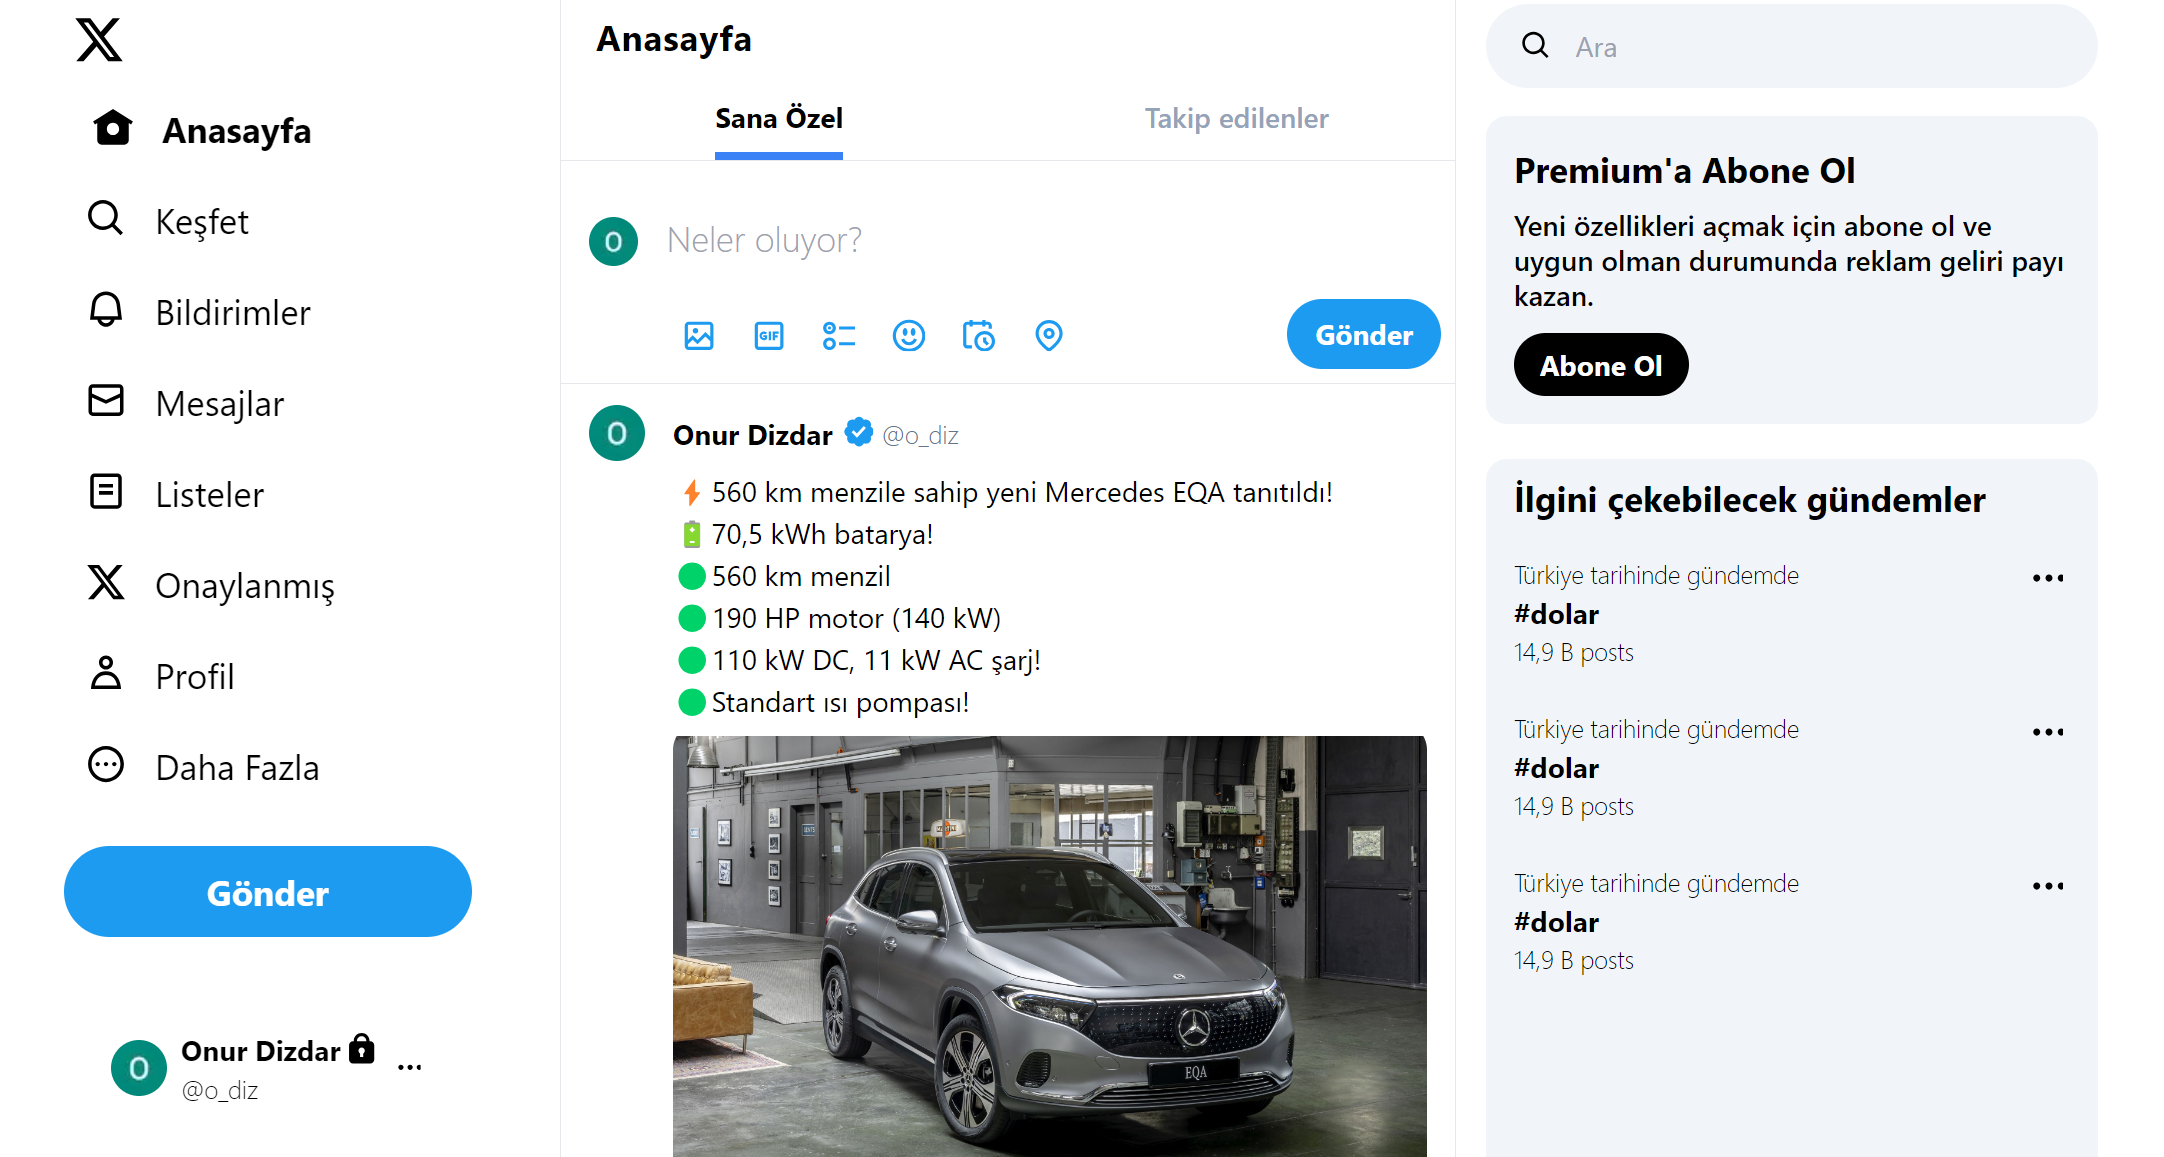
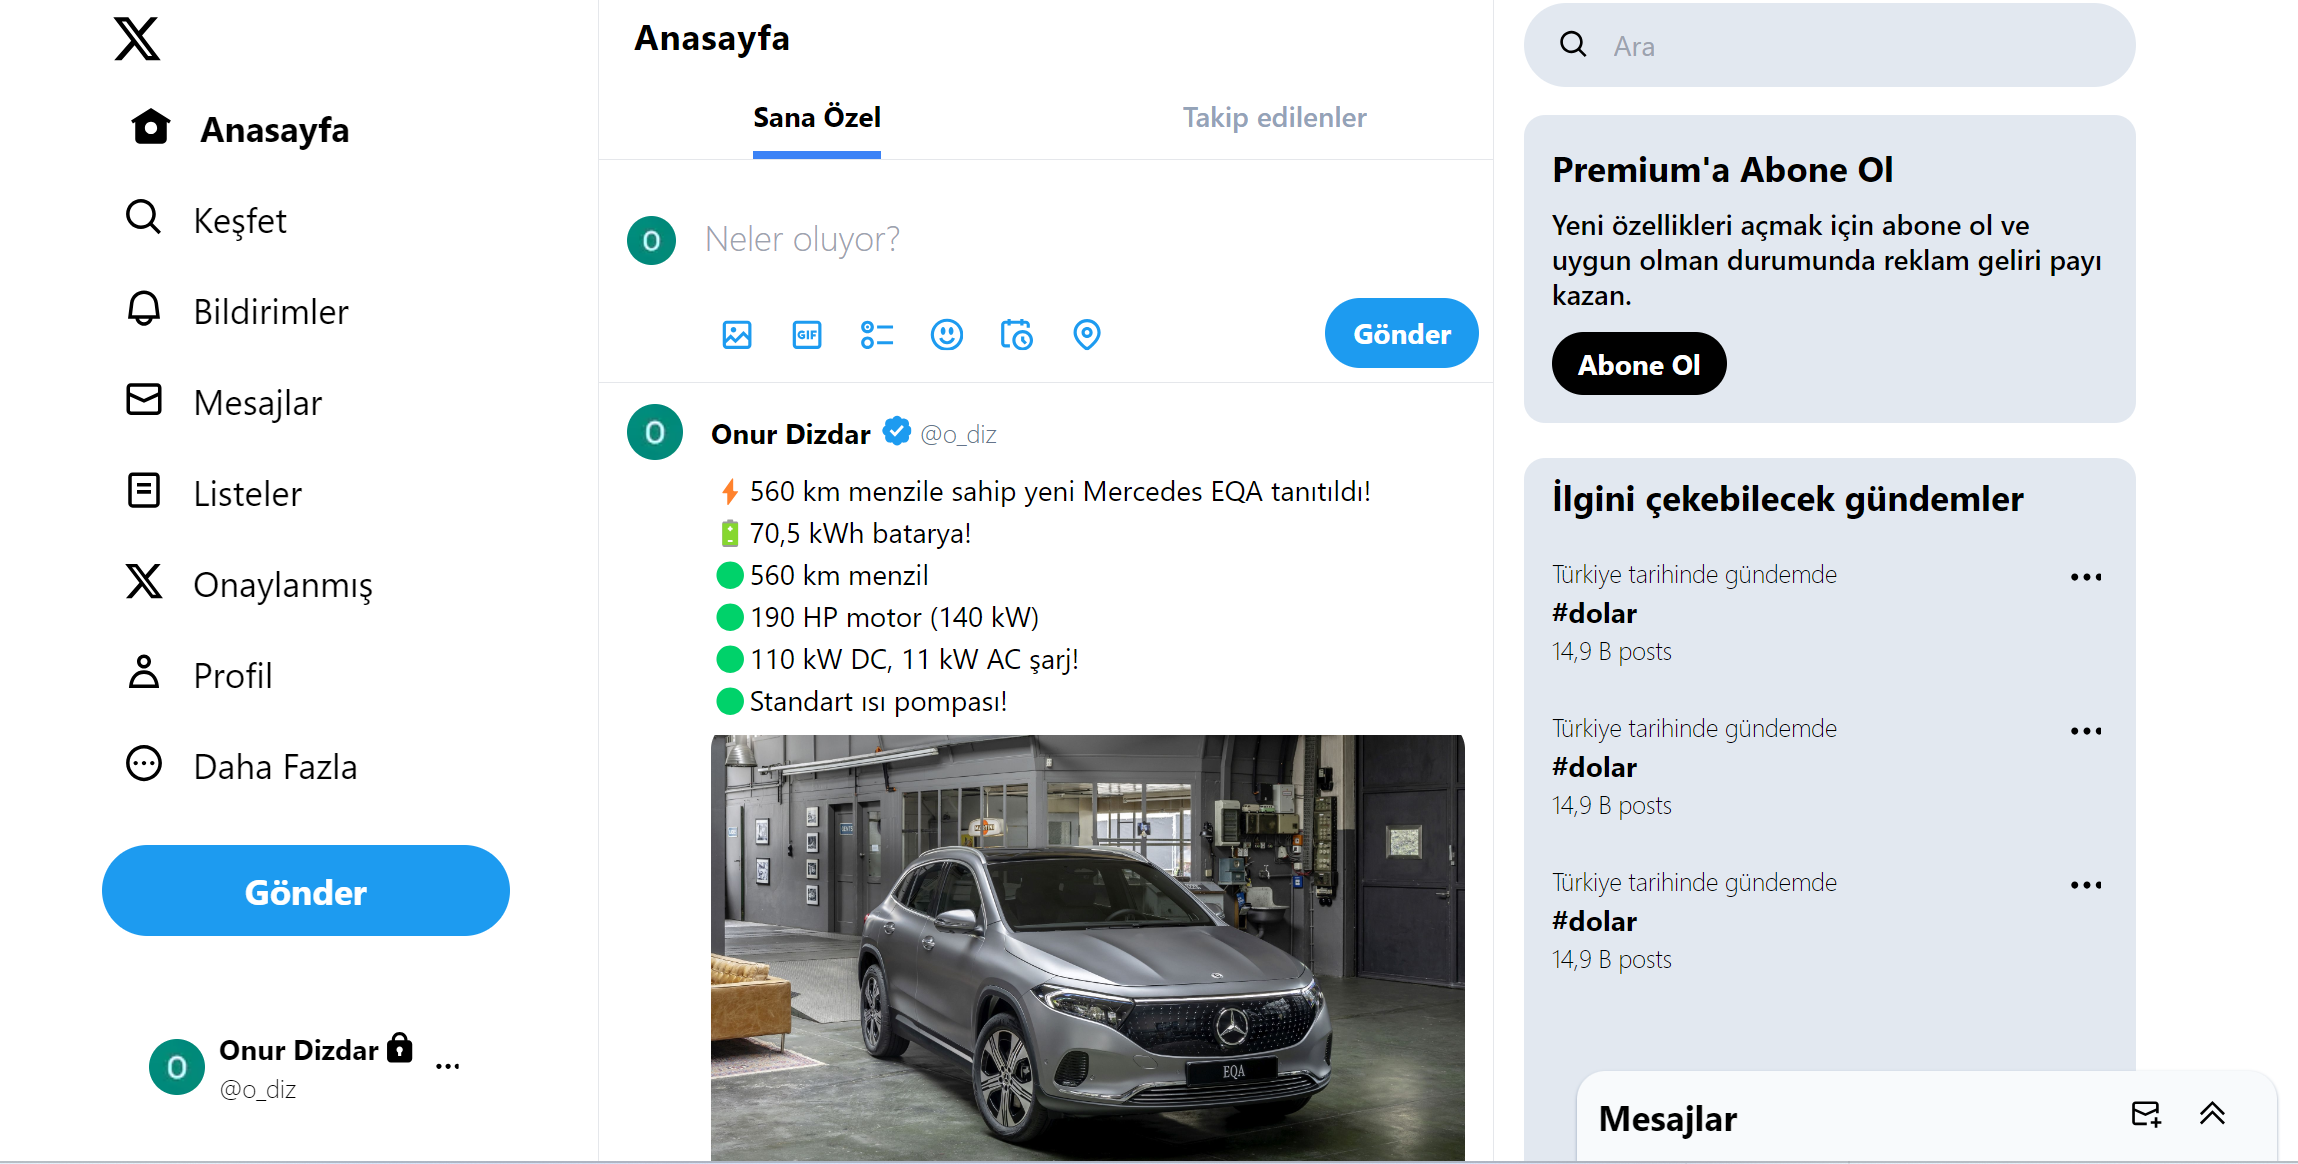
message paneli eklendi

diff --git a/twitter-clone/src/components/RightBar.jsx b/twitter-clone/src/components/RightBar.jsx
@@ -12,7 +12,7 @@ const RightBar = () => {
             className={`flex items-center px-4 py-1 ${
               bordered == true &&
               "border-[1px] border-blue-300 py-[3px] px-[15px]"
-            }  bg-slate-100 rounded-full mb-4 mt-1`}
+            }  bg-slate-200 rounded-full mb-4 mt-1`}
           >
             <svg width="30px" height="25px" className="scale-75">
               <path d="M10.25 3.75c-3.59 0-6.5 2.91-6.5 6.5s2.91 6.5 6.5 6.5c1.795 0 3.419-.726 4.596-1.904 1.178-1.177 1.904-2.801 1.904-4.596 0-3.59-2.91-6.5-6.5-6.5zm-8.5 6.5c0-4.694 3.806-8.5 8.5-8.5s8.5 3.806 8.5 8.5c0 1.986-.682 3.815-1.824 5.262l4.781 4.781-1.414 1.414-4.781-4.781c-1.447 1.142-3.276 1.824-5.262 1.824-4.694 0-8.5-3.806-8.5-8.5z"></path>
@@ -20,11 +20,11 @@ const RightBar = () => {
             <input
               onClick={() => setBordered(true)}
               onMouseLeave={() => setBordered(false)}
-              className="p-2 bg-slate-100 w-full focus:outline-none"
+              className="p-2 bg-slate-200 w-full focus:outline-none"
               placeholder="Ara"
             ></input>
           </div>
-          <div className="bg-slate-100 rounded-xl p-4">
+          <div className="bg-slate-200 rounded-xl p-4">
             <h2 className="font-bold text-xl">Premium'a Abone Ol</h2>
             <p className="pt-2 font-semibold leading-5">
               Yeni özellikleri açmak için abone ol ve uygun olman durumunda

diff --git a/twitter-clone/src/components/Messages.jsx b/twitter-clone/src/components/Messages.jsx
@@ -1,0 +1,13 @@
+export const Messages=()=>{
+    return(<>
+    <section className="hidden lg:block fixed z-0 right-0 mr-5 bottom-0 w-[400px] bg-slate-50 p-3 rounded-t-2xl cursor-pointer shadow-slate-400 shadow-sm">
+        <div className="flex justify-between ">
+        <h2 className="font-bold text-xl">Mesajlar</h2>
+        <div className="flex gap-2 pr-2">
+        <svg width="30px" height="25px" className="scale-75"><path d="M1.998 5.5c0-1.381 1.119-2.5 2.5-2.5h15c1.381 0 2.5 1.119 2.5 2.5V12h-2v-1.537l-8 3.635-8-3.635V18.5c0 .276.224.5.5.5H13v2H4.498c-1.381 0-2.5-1.119-2.5-2.5v-13zm2 2.766l8 3.635 8-3.635V5.5c0-.276-.224-.5-.5-.5h-15c-.276 0-.5.224-.5.5v2.766zM19 18v-3h2v3h3v2h-3v3h-2v-3h-3v-2h3z"></path></svg>
+        <svg width="30px" height="25px" className="scale-75"><path d="M12 2.59l9.46 9.45-1.42 1.42L12 5.41l-8.04 8.05-1.42-1.42L12 2.59zm0 7l9.46 9.45-1.42 1.42L12 12.41l-8.04 8.05-1.42-1.42L12 9.59z"></path></svg>
+        </div>
+        </div>
+        </section>
+    </>)
+} 

diff --git a/twitter-clone/src/App.jsx b/twitter-clone/src/App.jsx
@@ -1,5 +1,6 @@
 import "./App.css";
 import LeftBar from "./components/LeftBar";
+import { Messages } from "./components/Messages";
 import MiddleBar from "./components/MiddleBar";
 import RightBar from "./components/RightBar";
 
@@ -7,12 +8,15 @@ function App() {
   return (
     <>
       <main className="flex container mx-auto">
+        <header>
         <LeftBar></LeftBar>
-        <div className="flex justify-end">
+        </header>
+        <main className="flex justify-end">
         <MiddleBar></MiddleBar>
         <RightBar></RightBar>
-        </div>
+        </main>
       </main>
+      <footer><Messages/></footer>
     </>
   );
 }

diff --git a/twitter-clone/src/components/altComponents/RightBarTakipOneri.jsx b/twitter-clone/src/components/altComponents/RightBarTakipOneri.jsx
@@ -3,7 +3,7 @@ import owebp from "./../../assets/O.webp";
 const RightBarTakipOneri = () => {
   return (
     <>
-      <main className="flex flex-col h-[300px] bg-slate-100 w-[350px] xl:w-[300px] mt-5 rounded-xl justify-between">
+      <main className="flex flex-col h-[300px] bg-slate-200 w-[300px] xl:w-[350px] mt-5 rounded-xl justify-between">
         <div>
           <div className="font-bold text-xl pt-2 pb-5 pl-3">
             Kimi takip etmeli

diff --git a/twitter-clone/src/components/altComponents/RightBarGundem.jsx b/twitter-clone/src/components/altComponents/RightBarGundem.jsx
@@ -1,7 +1,7 @@
 const RightBarGundem = () => {
   return (
     <>
-      <main className="flex flex-col lg:h-[700px] bg-slate-100 xl:w-[350px] mt-5 rounded-xl ">
+      <main className="flex flex-col lg:h-[700px] bg-slate-200 xl:w-[350px] mt-5 rounded-xl ">
         <div className=" font-bold text-xl pt-2 pb-5 pl-4">
           İlgini çekebilecek gündemler
         </div>
